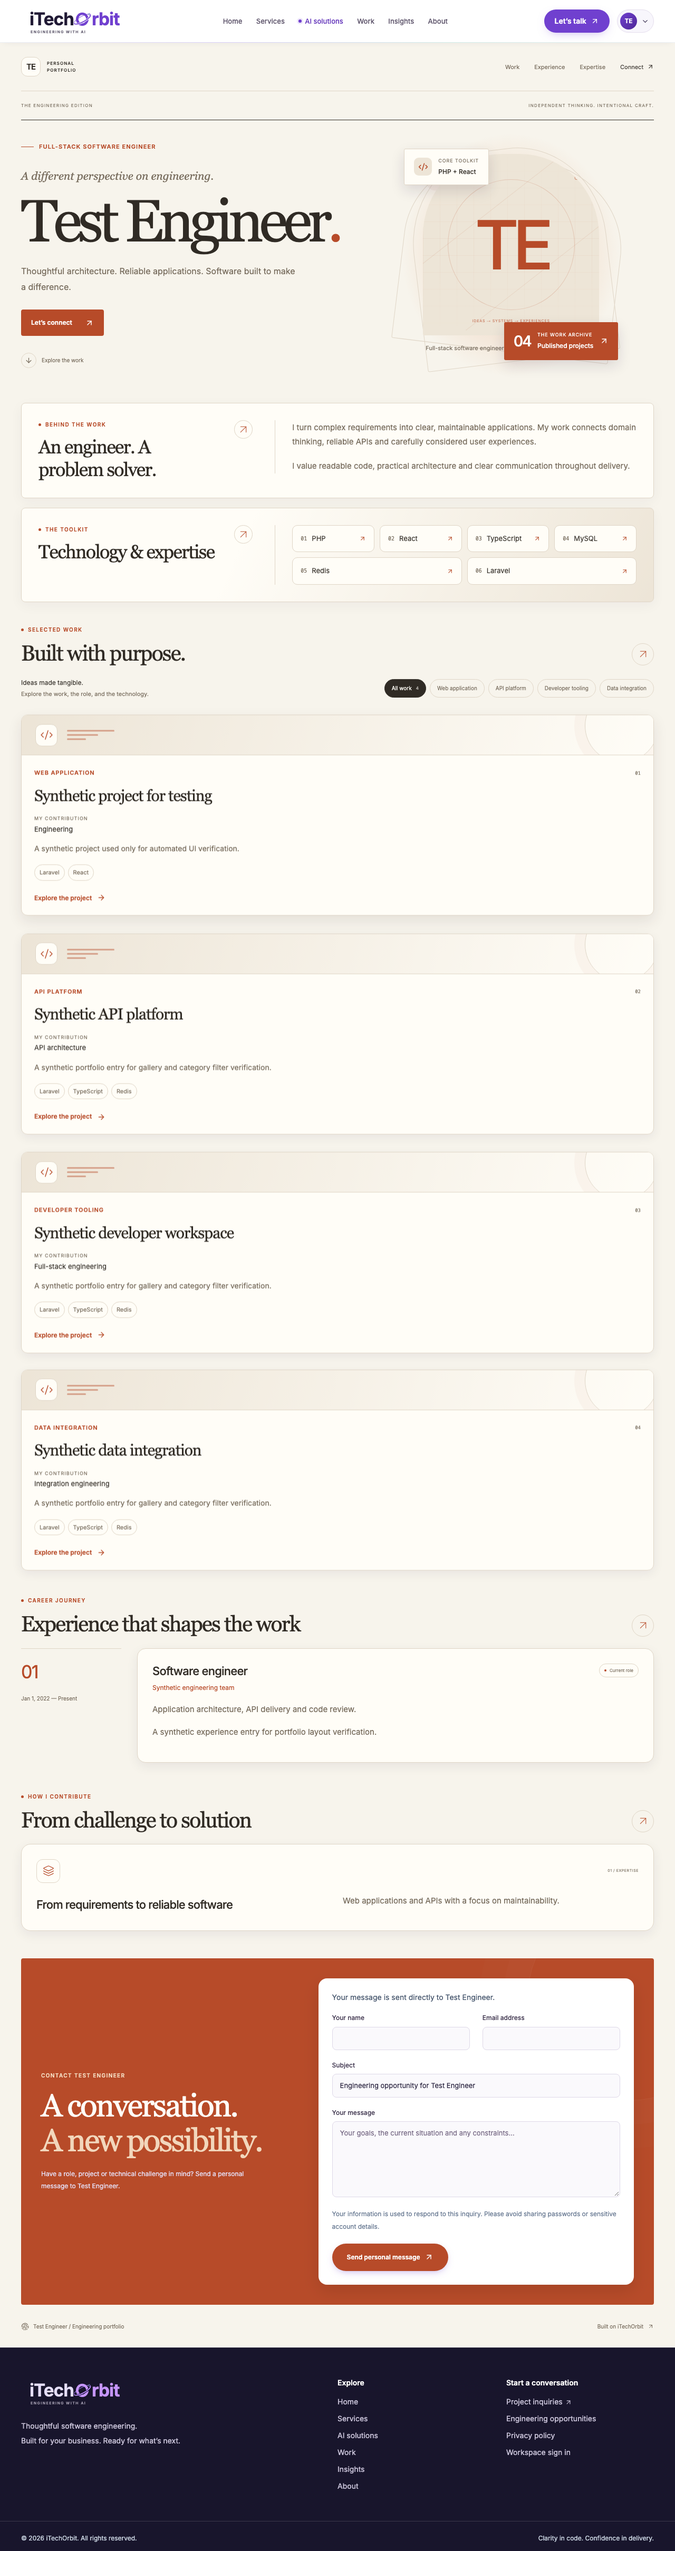
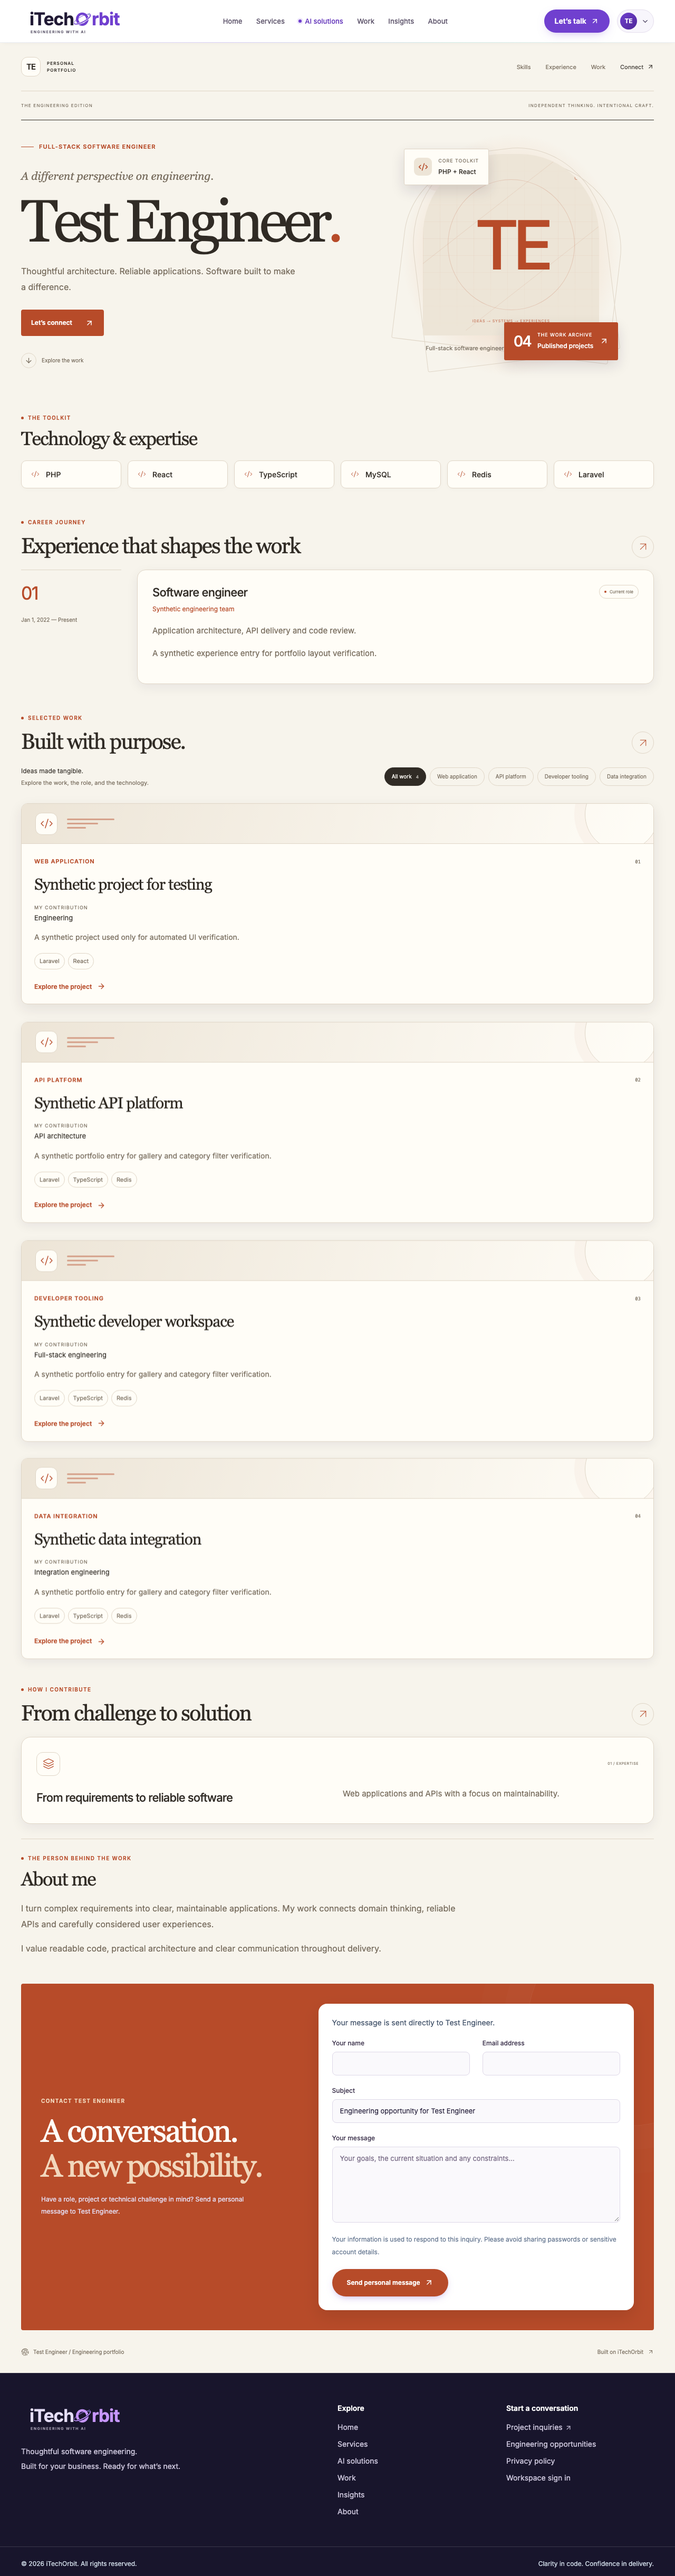
Use a consistent career-first portfolio order with compact open sections

diff --git a/resources/js/components/portfolio/PortfolioView.tsx b/resources/js/components/portfolio/PortfolioView.tsx
@@ -24,7 +24,7 @@ function Socials({ profile }: { profile: Profile }) {
   return profile.socials.length ? <div className="pf-socials">{profile.socials.map(social => <a key={social.url} href={social.url} target="_blank" rel="noopener noreferrer">{social.name}<MoveUpRight size={13} /></a>)}</div> : null;
 }
 function SectionNav({ profile, projects }: { profile: Profile; projects: Project[] }) {
-  const links = [projects.length > 0 && ['projects', 'Work'], profile.experiences.length > 0 && ['experience', 'Experience'], profile.skills.length > 0 && ['expertise', 'Expertise'], ['connect', 'Connect']].filter(Boolean) as string[][];
+  const links = [profile.skills.length > 0 && ['expertise', 'Skills'], profile.experiences.length > 0 && ['experience', 'Experience'], projects.length > 0 && ['projects', 'Work'], ['connect', 'Connect']].filter(Boolean) as string[][];
   return <div className="pf-local-header"><a href="#portfolio-top" className="pf-personal-brand" aria-label={`${profile.name} portfolio top`}><span>{initials(profile.name)}</span><span>PERSONAL<br />PORTFOLIO</span></a><nav aria-label="Portfolio sections">{links.map(([id, label]) => <a key={id} href={`#${id}`}>{label}{id === 'connect' && <ArrowUpRight size={13} />}</a>)}</nav></div>;
 }
 function Identity({ profile, projects, technical = false }: { profile: Profile; projects: Project[]; technical?: boolean }) {
@@ -43,10 +43,10 @@ function Hero({ profile, projects, variant, children }: { profile: Profile; proj
   return <header className="pf-hero"><div className="pf-hero-copy"><div className="pf-hero-label"><span className="pf-label-line" /><span>{profile.designation || 'Engineering portfolio'}</span></div><p className="pf-hero-prelude">{variant === 'blueprint' ? 'Human thinking. System-level craft.' : variant === 'editorial' ? 'A different perspective on engineering.' : variant === 'executive' ? 'Engineering ideas into impact.' : variant === 'spotlight' ? 'The craft behind the experience.' : 'A little curiosity. A lot of craft.'}</p><h1>{profile.name}<span className="pf-name-dot">.</span></h1><Rich html={profile.objective} className="pf-objective" /><Actions profile={profile} /><Socials profile={profile} />{children}</div><Identity profile={profile} projects={projects} technical={variant === 'blueprint'} /></header>;
 }
 function Skills({ profile }: { profile: Profile }) {
-  return profile.skills.length ? <Section id="expertise" label="The toolkit" title="Technology & expertise" className="pf-profile-row pf-expertise-row"><div className="pf-profile-content"><div className="pf-skills">{profile.skills.map((skill, index) => <span key={skill}><small aria-hidden="true">{String(index + 1).padStart(2, '0')}</small>{skill}<ArrowUpRight size={13} aria-hidden="true" /></span>)}</div></div></Section> : null;
+  return profile.skills.length ? <Section id="expertise" label="The toolkit" title="Technology & expertise" className="pf-profile-row pf-expertise-row"><div className="pf-profile-content"><div className="pf-skills">{profile.skills.map(skill => <span key={skill}><Code2 size={16} strokeWidth={1.5} aria-hidden="true" />{skill}</span>)}</div></div></Section> : null;
 }
 function About({ profile }: { profile: Profile }) {
-  return profile.introduction || profile.additional ? <Section id="about" label="Behind the work" title="An engineer. A problem solver." className="pf-profile-row pf-about-row"><div className="pf-profile-content"><Rich html={profile.introduction} /><Rich html={profile.additional} className="pf-additional" /></div></Section> : null;
+  return profile.introduction || profile.additional ? <Section id="about" label="The person behind the work" title="About me" className="pf-profile-row pf-about-row"><div className="pf-profile-content"><Rich html={profile.introduction} /><Rich html={profile.additional} className="pf-additional" /></div></Section> : null;
 }
 function Experience({ profile }: { profile: Profile }) {
   return profile.experiences.length ? <Section id="experience" label="Career journey" title="Experience that shapes the work"><div className="pf-timeline">{profile.experiences.map((experience, i) => <article key={i} className="pf-experience"><div className="pf-experience-index"><span>{String(i + 1).padStart(2, '0')}</span><p className="pf-date">{experience.join_date ? dateLabel(experience.join_date) : ''}{experience.join_date && ' — '}{experience.resign_date ? dateLabel(experience.resign_date) : 'Present'}</p></div><div className="pf-experience-body"><div className="pf-experience-top"><div><h3>{experience.designation}</h3><p className="pf-organization">{experience.organization}</p></div>{!experience.resign_date && <span className="pf-current-role"><span />Current role</span>}</div><Rich html={experience.responsibilities} /><Rich html={experience.descriptions} /></div></article>)}</div></Section> : null;
@@ -91,11 +91,13 @@ export function PortfolioView({ profile, projects, template, preview = false }: 
   const hero = <Hero profile={profile} projects={projects} variant={style}>{projects.length > 0 && <a href="#projects" className="pf-scroll-link"><span><ArrowDown size={15} /></span>Explore the work</a>}</Hero>;
   return <div ref={canvas} id="portfolio-top" className={`portfolio-view pf-${style}`} data-template={style} onClick={preview ? event => { if ((event.target as Element).closest('a')) event.preventDefault(); } : undefined}>
     <div className="shell pf-shell"><SectionNav profile={profile} projects={projects} />
-      {style === 'executive' ? <><div className="pf-executive-stage">{hero}<div className="pf-executive-signoff"><span>ENGINEERING / PERSPECTIVE / EXECUTION</span><Fingerprint size={22} strokeWidth={1} /></div></div><Facts profile={profile} projects={projects} />{work}{experience}<div className="pf-profile-sections">{about}{skills}</div>{services}</>
-        : style === 'blueprint' ? <><div className="pf-terminal-bar"><span><span className="pf-terminal-dot" /> engineer.profile</span><span>HUMAN AT THE CORE / ENGINEERING AT THE EDGES</span></div>{hero}{work}<div className="pf-profile-sections">{about}{skills}</div>{experience}{services}</>
-        : style === 'editorial' ? <><div className="pf-editorial-masthead"><span>THE ENGINEERING EDITION</span><span>INDEPENDENT THINKING. INTENTIONAL CRAFT.</span></div>{hero}<div className="pf-profile-sections">{about}{skills}</div>{work}{experience}{services}</>
-        : style === 'spotlight' ? <><div className="pf-spotlight-stage">{hero}<div className="pf-spotlight-ticker" aria-hidden="true"><span>ENGINEER.</span><span>CREATE.</span><span>ITERATE.</span><ArrowUpRight size={48} strokeWidth={1} /></div></div>{work}<div className="pf-profile-sections">{about}{skills}</div>{experience}{services}</>
-        : <>{hero}<Facts profile={profile} projects={projects} /><div className="pf-profile-sections">{about}{skills}</div>{work}{experience}{services}</>}
+      {style === 'executive' ? <div className="pf-executive-stage">{hero}<div className="pf-executive-signoff"><span>ENGINEERING / PERSPECTIVE / EXECUTION</span><Fingerprint size={22} strokeWidth={1} /></div></div>
+        : style === 'blueprint' ? <><div className="pf-terminal-bar"><span><span className="pf-terminal-dot" /> engineer.profile</span><span>HUMAN AT THE CORE / ENGINEERING AT THE EDGES</span></div>{hero}</>
+        : style === 'editorial' ? <><div className="pf-editorial-masthead"><span>THE ENGINEERING EDITION</span><span>INDEPENDENT THINKING. INTENTIONAL CRAFT.</span></div>{hero}</>
+        : style === 'spotlight' ? <div className="pf-spotlight-stage">{hero}<div className="pf-spotlight-ticker" aria-hidden="true"><span>ENGINEER.</span><span>CREATE.</span><span>ITERATE.</span><ArrowUpRight size={48} strokeWidth={1} /></div></div>
+        : hero}
+      {(style === 'studio' || style === 'executive') && <Facts profile={profile} projects={projects} />}
+      <div className="pf-profile-sections">{skills}{experience}{work}{services}{about}</div>
       <Contact profile={profile} preview={preview} /><footer className="pf-signature"><span><Fingerprint size={15} />{profile.name} / Engineering portfolio</span><a href="/">Built on iTechOrbit <ArrowUpRight size={12} /></a></footer>
     </div>
   </div>;

diff --git a/resources/css/portfolio.css b/resources/css/portfolio.css
@@ -342,28 +342,31 @@
 @container(max-width:1023px) { .pf-shell { padding-inline:1.5rem; } }
 @container(max-width:380px) { .pf-shell { padding-inline:1.25rem; } }
 
-/* Independent full-width profile rows: natural height without competing side cards. */
-.pf-profile-sections { display:grid; gap:18px; margin:16px 0; }
+/* Skills first, then personal content: open sections with a compact, readable rhythm. */
+.pf-profile-sections { display:grid; gap:0; margin:8px 0 16px; }
 .pf-profile-sections:empty { display:none; }
-.pf-profile-row { display:grid; grid-template-columns:minmax(0,.8fr) minmax(0,1.35fr); gap:42px; align-items:start; margin:0; padding:32px; border:1px solid var(--pf-line); border-radius:20px; background:var(--pf-card); box-shadow:0 7px 24px #21143a0c; }
-.pf-profile-row .pf-section-heading { margin:0; align-items:start; gap:18px; }
-.pf-profile-row .pf-section-heading h2 { font-size:clamp(26px,2.8cqw,36px); line-height:1.2; }
-.pf-profile-row .pf-section-glyph { width:35px; height:35px; }
-.pf-profile-content { min-width:0; border-left:1px solid var(--pf-line); padding-left:32px; }
+.pf-profile-row { display:block; margin:0; padding:28px 0; border:0; border-radius:0; background:none; box-shadow:none; }
+.pf-about-row { border-top:1px solid var(--pf-line); }
+.pf-profile-row .pf-section-heading { margin:0 0 20px; }
+.pf-profile-row .pf-section-heading h2 { font-size:clamp(27px,2.8cqw,36px); line-height:1.2; }
+.pf-profile-row .pf-kicker { font-size:10px; margin-bottom:9px; }
+.pf-profile-row .pf-section-glyph { display:none; }
+.pf-profile-content { min-width:0; padding:0; border:0; }
 .pf-profile-content .pf-rich:last-child>:last-child { margin-bottom:0; }
-.pf-expertise-row { background:linear-gradient(115deg,var(--pf-card) 35%,var(--pf-soft)); }
-.pf-profile-row .pf-skills { display:flex; justify-content:center; flex-wrap:wrap; gap:10px; }
-.pf-profile-row .pf-skills>span,.pf-profile-row .pf-skills>span:last-child:nth-child(odd) { flex:1 1 145px; min-width:0; width:auto; max-width:calc(50% - 5px); grid-column:auto; padding:15px; font-size:13px; background:var(--pf-card); border-radius:10px; }
-.pf-profile-row .pf-skills>span:only-child { max-width:100%; }
-.pf-profile-row .pf-skills small { font-size:10px; }
-.pf-blueprint .pf-profile-row { border-radius:6px; box-shadow:0 10px 26px #00000035; }
-.pf-editorial .pf-profile-row { border-radius:8px; }
-@container(max-width:800px) {
-  .pf-profile-row { grid-template-columns:1fr; padding:26px; gap:22px; }
+.pf-profile-row .pf-skills { display:flex; justify-content:flex-start; flex-wrap:wrap; gap:12px; }
+.pf-profile-row .pf-skills>span,.pf-profile-row .pf-skills>span:last-child:nth-child(odd) { display:flex; align-items:center; flex:1 1 135px; min-width:0; width:auto; max-width:210px; grid-column:auto; padding:15px 18px; gap:12px; font-size:14px; font-weight:500; background:var(--pf-card); color:var(--pf-ink); border:1px solid var(--pf-line); border-radius:10px; box-shadow:0 3px 10px #21143a06; }
+.pf-profile-row .pf-skills svg { color:var(--pf-accent); margin:0; flex-shrink:0; }
+.pf-profile-row .pf-skills>span:hover { box-shadow:0 7px 18px #21143a12; }
+.pf-about-row .pf-profile-content { max-width:85ch; }
+.pf-about-row .pf-rich { font-size:16px; line-height:1.85; }
+.pf-about-row .pf-additional { margin-top:15px; }
+.pf-blueprint .pf-profile-row,.pf-editorial .pf-profile-row { border-radius:0; box-shadow:none; }
+.pf-blueprint .pf-profile-row .pf-skills>span { border-radius:5px; }
+@container(max-width:680px) {
+  .pf-profile-row { padding:23px 0; }
   .pf-profile-row .pf-section-heading h2 { font-size:29px; }
-  .pf-profile-content { padding:22px 0 0; border-left:0; border-top:1px solid var(--pf-line); }
-}
-@container(max-width:480px) {
-  .pf-profile-row { padding:23px 20px; border-radius:15px; }
-  .pf-profile-row .pf-skills>span,.pf-profile-row .pf-skills>span:last-child:nth-child(odd) { flex-basis:120px; padding:12px; font-size:12px; }
+  .pf-profile-row .pf-skills { gap:10px; }
+  .pf-profile-row .pf-skills>span,.pf-profile-row .pf-skills>span:last-child:nth-child(odd) { flex-basis:125px; max-width:calc(50% - 5px); padding:13px 14px; font-size:13px; gap:10px; }
+  .pf-profile-row .pf-skills>span:only-child { max-width:100%; }
+  .pf-about-row .pf-rich { font-size:14px; }
 }

diff --git a/tests/browser/website.spec.ts b/tests/browser/website.spec.ts
@@ -306,11 +306,13 @@ test('portfolio template studio previews five layouts and persists the public se
       const box = container.getBoundingClientRect();
       const about = container.querySelector('#about')!.getBoundingClientRect();
       const expertise = container.querySelector('#expertise')!.getBoundingClientRect();
-      return { width: box.width, aboutWidth: about.width, expertiseWidth: expertise.width, gap: expertise.top - about.bottom };
+      return { width: box.width, aboutWidth: about.width, expertiseWidth: expertise.width, gap: about.top - expertise.bottom };
     });
     expect(Math.abs(profileRows.aboutWidth - profileRows.width)).toBeLessThan(1);
     expect(Math.abs(profileRows.expertiseWidth - profileRows.width)).toBeLessThan(1);
-    expect(profileRows.gap).toBeGreaterThanOrEqual(16);
+    expect(profileRows.gap).toBeGreaterThanOrEqual(0);
+    await expect(page.locator('.pf-profile-sections > section').first()).toHaveAttribute('id', 'expertise');
+    expect(await page.locator('.pf-profile-sections > section').evaluateAll(sections => sections.map(section => section.id))).toEqual(['expertise', 'experience', 'projects', 'services', 'about']);
 
     const originalViewport = page.viewportSize()!;
     const alignmentSizes = [originalViewport, ...(!isMobile ? [{ width: 768, height: 900 }, { width: 1440, height: 900 }] : [])];

diff --git a/app/Services/PortfolioPresentation.php b/app/Services/PortfolioPresentation.php
@@ -7,9 +7,9 @@ use App\Models\User;
 class PortfolioPresentation
 {
     public const TEMPLATES = [
-        'studio' => ['name' => 'Studio', 'description' => 'A sculpted violet identity, layered profile visuals and tactile bento panels.'],
-        'executive' => ['name' => 'Executive', 'description' => 'A cinematic navy introduction with a career intelligence grid and mint details.'],
-        'blueprint' => ['name' => 'Blueprint', 'description' => 'A dark engineering workbench with circuit details, mint accents and a project-first gallery.'],
+        'studio' => ['name' => 'Studio', 'description' => 'A sculpted violet identity, layered visuals and a clean skills-led profile.'],
+        'executive' => ['name' => 'Executive', 'description' => 'A cinematic navy introduction, mint details and a clear career narrative.'],
+        'blueprint' => ['name' => 'Blueprint', 'description' => 'A dark engineering workbench with circuit details, mint accents and a structured career story.'],
         'editorial' => ['name' => 'Editorial', 'description' => 'An art-directed ivory journal with oversized typography, orange annotations and project stories.'],
         'spotlight' => ['name' => 'Spotlight', 'description' => 'An electric-blue identity stage, bold outline type and a visual project mosaic.'],
     ];

diff --git a/docs/PORTFOLIO_TEMPLATES.md b/docs/PORTFOLIO_TEMPLATES.md
@@ -7,8 +7,8 @@ The existing `/portfolios` and `/portfolios/{key}` pages now render a saved user
 | Design | Presentation |
 | --- | --- |
 | Studio | Sculpted violet identity, orbital artwork, lime work badge, tactile bento surfaces and an asymmetric project gallery. |
-| Executive | Cinematic navy introduction with mint details, architectural identity frames and a balanced full-width career timeline and paired expertise/about panels. |
-| Blueprint | Dark technical workbench, mint circuit details, expertise nodes and a project-first gallery. |
+| Executive | Cinematic navy introduction with mint details, architectural identity frames and a balanced full-width career timeline and open skills/personal sections. |
+| Blueprint | Dark technical workbench, mint circuit details, expertise nodes and a structured career gallery. |
 | Editorial | Ivory engineering journal, oversized serif type, orange annotations, arch identity and alternating project stories. |
 | Spotlight | Electric-blue identity stage, lime details, oversized outline typography and a visual work mosaic. |
 
@@ -109,3 +109,11 @@ Browser coverage measures both left/right portfolio content edges against the he
 About and Technology & Expertise are now two separate full-width rows in every template. They no longer occupy unequal-height side-by-side cards. Each row has a heading column and a readable content column, separated by a quiet vertical rule; narrow layouts stack those elements with a horizontal divider. Expertise tiles wrap within their own full-width section. Existing text, theme colors, subtle shadows and reduced-motion handling are retained. Empty rows remain omitted.
 
 Verified all five designs in both public pages and admin previews, including full-row width/non-overlap measurements and shared header/footer edges. All 6 affected desktop/mobile browser flows pass, including personal contact and screenshot upload. TypeScript, lint and client/SSR builds pass. Updated screenshots above show the final row composition.
+
+## Career-first order and open sections — 2026-10-16
+
+The final section order is consistent across all five templates: introduction → skills → professional experience → selected projects → services → personal/About content → contact. Local section navigation follows Skills, Experience, Work, Connect. Sections without content remain omitted. The template choice controls art direction, rather than changing the order recruiters must follow.
+
+The previous boxed profile rows and side-by-side heading/content columns were removed. Skills now use compact wrapping tiles with actual technology names and neutral code icons; decorative indices and link-like arrows were removed. Personal content is a simple readable About me section, with a quiet divider and natural reading width. There is no dedicated hobby field in the current schema; existing introduction/additional information is preserved without inventing hobbies or relabeling technical content as hobby facts.
+
+TypeScript, lint, Pint and production client/SSR builds pass. Browser coverage explicitly checks the section order, Skills-first position, full-width content alignment, contact forms and uploaded screenshots on desktop/mobile.

diff --git a/docs/IMPLEMENTATION_CHECKLIST.md b/docs/IMPLEMENTATION_CHECKLIST.md
@@ -232,3 +232,10 @@ Status legend: [x] implemented/verified, [ ] pending. Updated continuously; inco
 - [x] Replace competing side-by-side sections in all five templates with two independent full-width rows.
 - [x] Create a title/content row layout, subtle dividers, theme-aware surfaces and responsive expertise tiles; preserve natural section heights and existing content.
 - [x] Verify full-width stacked row geometry in all five templates, responsive header/footer alignment, contact forms and screenshot uploads: all 6 desktop/mobile browser checks pass. TypeScript, lint and client/SSR builds pass; review and refresh captures.
+
+## Skills-first profile layout refinement — 2026-10-16
+- [x] Put Skills before the existing personal/About content in all five templates; preserve actual content without inventing hobbies.
+- [x] Remove large profile card shells and heading/content columns; use open sections, compact technology tiles, one divider and natural reading width.
+- [x] Verify the final section order, Skills-first position, spacing, responsive alignment, all template previews and contact/upload behavior: all 6 affected browser scenarios pass. Types/lint, Pint and client/SSR builds pass; review and refresh captures.
+
+- [x] Standardize the career section order in every template: introduction → skills → experience → projects → services → personal/About → contact. Align local navigation with this order.

diff --git a/docs/COMPLETION_REPORT.md b/docs/COMPLETION_REPORT.md
@@ -189,3 +189,9 @@ Alignment verification: all 6 affected desktop/mobile browser checks passed, inc
 ## Premium profile rows — 2026-10-16
 
 Moved About and Technology & Expertise into separate full-width rows across all five portfolio designs, with heading/content columns, dividers and theme-aware surfaces. Mobile stacks the contents; section heights follow their own content. Added geometry regression checks and refreshed captures. All 6 affected desktop/mobile browser flows, TypeScript, lint and client/SSR builds pass. No data, environment, dependencies or migrations changed.
+
+## Final career order and compact profile layout — 2026-10-16
+
+Standardized all five portfolio templates to Introduction → Skills → Experience → Projects → Services → About → Contact, with matching local navigation and omission of empty sections. Replaced the rejected boxed rows with open sections, compact skill tiles and natural reading width. Removed decorative indices/arrow affordances from non-clickable skills. Preserved existing personal content; no hobbies were invented or schema fields added. Verified types, lint, Pint and client/SSR builds; browser coverage now asserts the final order as well as alignment/contact/upload behavior.
+
+Final career-order verification: 6 desktop/mobile browser checks passed. Updated portfolio captures reviewed and saved.
